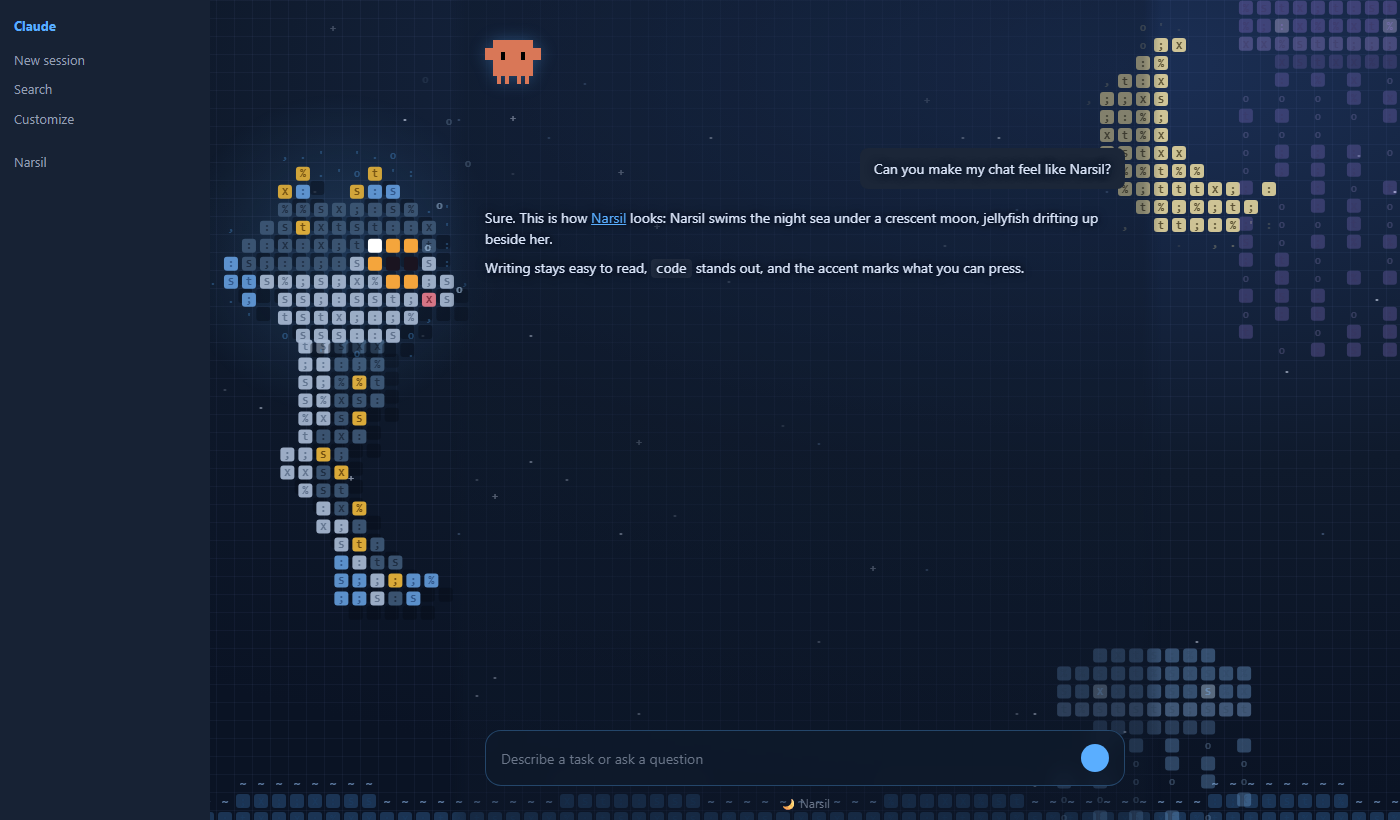
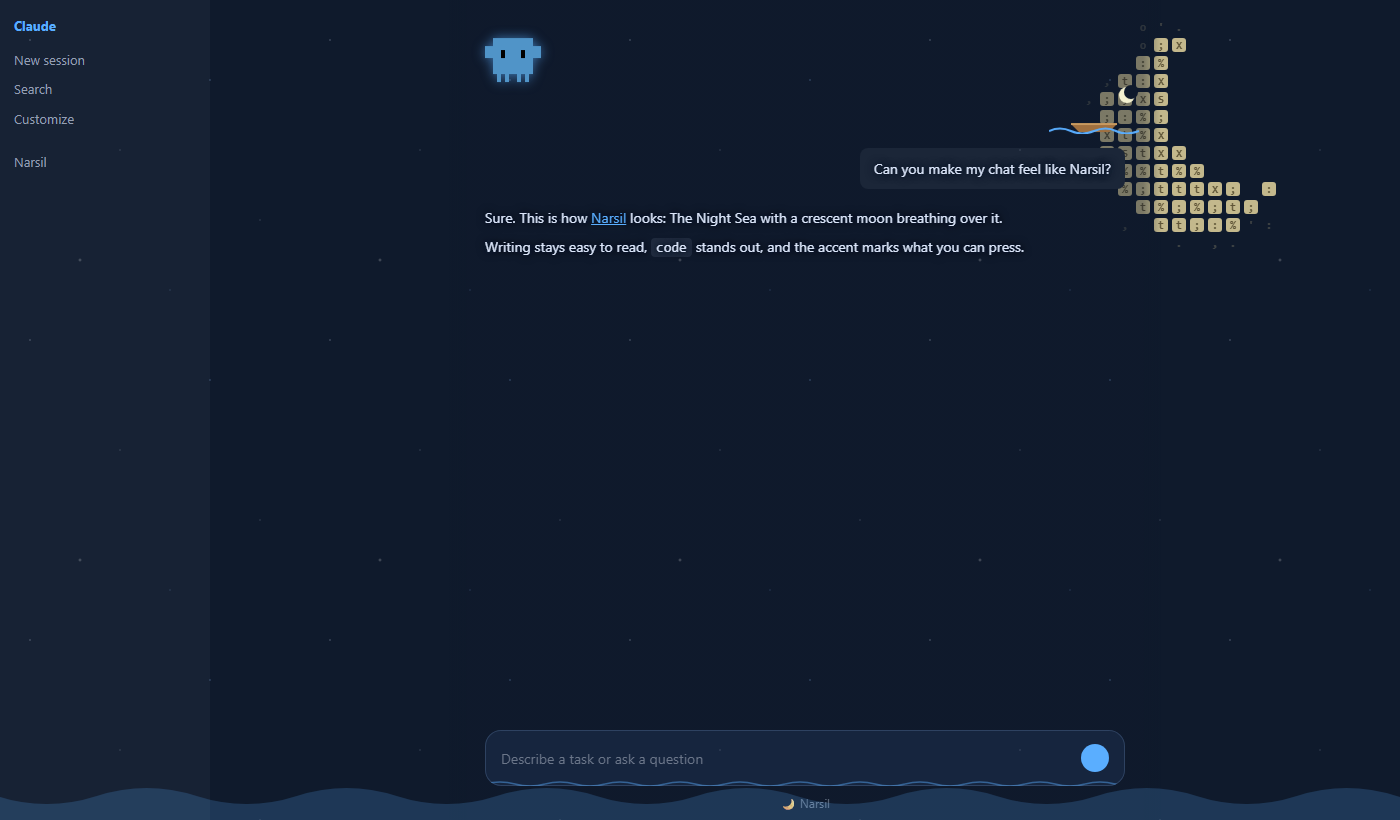
feat: reduce the Narsil theme to the Night Sea background and a moon
The scene now draws only a crescent moon whose light breathes slowly, on the
flat Night Sea sky. Scenes can set grid: false to leave out the faint grid.

diff --git a/hooks/thumbs.ts b/hooks/thumbs.ts
@@ -1,5 +1,5 @@
 export const THUMBS: Record<string, string> = {
[4 lines of base64/hex data omitted]
 }

diff --git a/extension/src/scenes/narsil.js b/extension/src/scenes/narsil.js
@@ -1,93 +1,12 @@
-// Narsil, a chibi sea serpent, swims the night sea: a crescent moon, jellyfish drifting up.
-// Her colors: a slate-blue back with gold spots, a pale belly, blue fins with gold spines, big amber eyes.
-const NARSIL = {
-  B: { bg: '#3d5674', fg: '#1e2c40', a: .95 },
-  b: { bg: '#a8bad2', fg: '#5d6f8a', a: .92 },
-  s: { bg: '#e6b23a', fg: '#6b4a10', a: .95 },
-  g: { bg: '#e6b23a', fg: '#6b4a10', a: .9 },
-  F: { bg: '#6aa6e8', fg: '#2b4f80', a: .85 },
-  E: { bg: '#f4a53c', fg: '#f4a53c', ch: '', a: 1 },
-  P: { bg: '#1a1420', fg: '#1a1420', ch: '', a: 1 },
-  W: { bg: '#ffffff', fg: '#ffffff', ch: '', a: 1 },
-  m: { bg: '#e07a8a', fg: '#7a2a3a', a: .95 },
-};
-
-// Her head, facing right: dorsal fin with gold spines, a big amber eye with a white glint, a smile, a side fin
-// that paddles (two frames)
-const HEAD_W = 13, HEAD_H = 10;
-const HEAD_TOP = [[2, 3, 'BBBBBBBB'], [3, 2, 'BBsBBBBBBB'], [4, 1, 'BBBBBBBWEEB'], [6, 0, 'FFbbbbbbbEEbb'],
-  [8, 3, 'bbbbbbbb'], [9, 4, 'bbbbbb']];
-const HEADS = [
-  sketch(HEAD_W, HEAD_H, [[0, 4, 'g'], [0, 8, 'g'], [1, 3, 'gF'], [1, 7, 'gFF'], ...HEAD_TOP,
-    [5, 0, 'FBBBBBBbEPPb'], [7, 1, 'F bbbbbbbbmb']]),
-  sketch(HEAD_W, HEAD_H, [[0, 5, 'g'], [0, 9, 'g'], [1, 4, 'gF'], [1, 8, 'gF'], ...HEAD_TOP,
-    [5, 1, 'BBBBBBbEPPb'], [7, 0, 'FFFbbbbbbbbmb']]),
-];
-
-// Her body, upright as in her picture and worked out each frame: an S-wave runs from the neck down to the tail,
-// wider at the neck, swinging more toward the tail, with a fin at its end
-const BODY_W = 12, BODY_H = 15;
-const spine = (gy, t) => 6 + (.4 + gy * .14) * Math.sin(gy * .45 - t * 2.4);
-const body = t => (gx, gy) => {
-  const hw = Math.max(.8, 2.6 - gy * .12), d = gx - spine(gy, t);
-  if (Math.abs(d) <= hw) {
-    if (d < -hw * .15) return { c: NARSIL.b };
-    return { c: hash(gx, gy, 13) < .14 ? NARSIL.s : NARSIL.B };
-  }
-  const fin = gy - (BODY_H - 4);
-  if (fin > 0 && Math.abs(d) <= hw + fin * .9 && hash(gx, gy, 17) < .85) return { c: NARSIL.F };
-};
-
-// Jellyfish from the deep, smaller and dimmer than Narsil
-const jelly = ph => sketch(13, 22, [
-  ...(ph ? [[0, 4, 'BBBBB'], [1, 2, 'BBBBBBBBB'], [2, 1, 'BBpBBBBBpBB'], [3, 0, 'RRRRRRRRRRRRR']]
-    : [[0, 3, 'BBBBBBB'], [1, 1, 'BBBBBBBBBBB'], [2, 1, 'BBpBBBBBpBB'], [3, 1, 'RRRRRRRRRRR']]),
-  [4, 3, 'kkkkkkk'],
-  ...[1, 3, 5, 7, 9, 11].flatMap((c, k) => Array.from({ length: 16 }, (_, i) => {
-    const r = hash(k, i, 7);
-    return r < .18 ? [] : [[5 + i, c, r < .42 ? 'o' : 'l']];
-  }).flat()),
-]);
-const JELLIES = [jelly(0), jelly(1)];
-const jellyPal = c => ({
-  B: { bg: c, fg: shade(c, -.6), a: .72 }, p: { bg: shade(c, .55), fg: c, a: .85 }, R: { bg: shade(c, .15), fg: shade(c, -.6), a: .78 },
-  k: { bg: shade(c, -.15), fg: shade(c, -.65), a: .6 }, l: { bg: c, fg: shade(c, -.6), a: .62 }, o: { ch: 'o', fg: shade(c, .3), a: .5 },
-});
-const JELLY = [[.8, jellyPal('#7fb4ef'), .7, .5], [.92, jellyPal('#9a7fe0'), .55, .42]];
-
-const BUBBLE = sketch(1, 1, [[0, 0, 'o']]);
-const BUBBLE_PAL = { o: { ch: 'o', fg: '#bfe0ff', a: .7 } };
-
+// The Narsil theme's only motion: a crescent moon, its light breathing slowly. Everything else is the Night Sea
+// background of themes/narsil.css, so this scene draws no grid and nothing but the moon.
 SCENES.narsil = {
+  grid: false,
   cell: (x, y, cols, rows, t) => {
-    // the crescent moon, top right, with a soft rim
     const mx = Math.round(cols * .84), my = Math.round(rows * .16), R = 5.5;
     const d1 = Math.hypot(x - mx, y - my), d2 = Math.hypot(x - mx - 3, y - my + 1.6);
-    if (d1 <= R && d2 > R * .85) return { bg: '#e8d9a0', fg: '#4a4126', a: .88 };
-    if (d1 <= R + 1.5 && d2 > R * .85 + .6 && hash(x, y, 5) < .45) return { fg: '#e8d9a0', a: .22 + .12 * Math.sin(t * 2 + x) };
-    // (the wave along the bottom is the theme stylesheet's, so it can swell and turn red with Claude's work)
-    // specks rising through the water, and stars
-    if (rising(x, y, t, .6, .006)) return { ch: '.', fg: '#9cc8ff', a: .3 };
-    return twinkle(x, y, t, '#dce6fa', .014);
-  },
-  sprites: (cols, rows, t) => {
-    // in the left margin, beside the chat, bobbing gently
-    const x0 = cols * .255 - BODY_W / 2 + Math.sin(t * .25) * 1.5, y0 = rows * .42 + Math.sin(t * .6) * 1.2;
-    const hx = x0 + spine(0, t) - 6.5, hy = y0 - HEAD_H + .4;
-    return [
-      ...JELLY.map(([fx, pal, v, a], i) => {
-        const span = rows + 34;
-        return { art: frame(JELLIES, t, 1.1, i * .5), pal, a, key: 10 + i,
-          x: fx * cols + Math.sin(t * .35 + i) * 2.5 - 6.5, y: rows + 4 - ((t * v + i * span / 2) % span) };
-      }),
-      { field: body(t), w: BODY_W, h: BODY_H, x: x0, y: y0, key: 1, shadow: '#050a14' },
-      { art: frame(HEADS, t, 1.4), pal: NARSIL, x: hx, y: hy, key: 2, shadow: '#050a14', halo: '#5aaeff',
-        glow: { r: 9, color: '#5aaeff', a: .18 } },
-      ...Array.from({ length: 6 }, (_, i) => {
-        const p = (t * .35 + i / 6) % 1;
-        return { art: BUBBLE, pal: BUBBLE_PAL, key: 20 + i, a: 1 - p,
-          x: hx + 12 + Math.sin(t * 2 + i * 1.7) * 1.2, y: hy + 7 - p * 14 };
-      }),
-    ];
+    const breath = .5 + .5 * Math.sin(t * .8);
+    if (d1 <= R && d2 > R * .85) return { bg: '#e8d9a0', fg: '#4a4126', a: .78 + .17 * breath };
+    if (d1 <= R + 1.5 && d2 > R * .85 + .6 && hash(x, y, 5) < .45) return { fg: '#e8d9a0', a: .15 + .25 * breath };
   },
 };

diff --git a/hooks/themes.ts b/hooks/themes.ts
@@ -6,8 +6,8 @@ export const THEMES: Theme[] = [
   // Narsil, the mascot of the narsil-pet mod, with the Night Sea palette and its soft blue shadows
   ((t: Theme) => ({ ...t, vars: { ...t.vars, 'cds-shadow-md': '0 6px 22px rgba(90, 174, 255, .12)',
     'cds-shadow-lg': '0 12px 34px rgba(90, 174, 255, .16)' } }))(
-    live('narsil', 'Narsil', 'Narsil swims the night sea under a crescent moon, jellyfish drifting up beside her',
-      ['#0f1a2c', '#dce6fa', '#5aaeff'], 'radial-gradient(120% 90% at 80% 8%, #1b2f55, #0f1a2c 55%, #0a1324)',
+    live('narsil', 'Narsil', 'The Night Sea with a crescent moon breathing over it',
+      ['#0f1a2c', '#dce6fa', '#5aaeff'], '#0f1a2c',
       'rgba(15, 26, 44, .6)', 'rgba(90, 174, 255, .3)', 'here to cut some bugs ⚔',
       { idle: '🌙 Narsil', tool: '🌊 {tool}…', error: '⚔ {tool} failed', done: '✨ done' })),
   {

diff --git a/extension/src/engine.js b/extension/src/engine.js
@@ -31,11 +31,13 @@ const draw = w => {
   if (!(now - w.measured < 1000)) { w.col = column(); w.measured = now; }
   ctx.clearRect(0, 0, W, H);
   ctx.globalAlpha = 1;
-  ctx.strokeStyle = 'rgba(160, 180, 255, .05)';
-  ctx.beginPath();
-  for (let x = 0; x <= cols; x++) { ctx.moveTo(x * CELL + .5, 0); ctx.lineTo(x * CELL + .5, H); }
-  for (let y = 0; y <= rows; y++) { ctx.moveTo(0, y * CELL + .5); ctx.lineTo(W, y * CELL + .5); }
-  ctx.stroke();
+  if (scene.grid !== false) {
+    ctx.strokeStyle = 'rgba(160, 180, 255, .05)';
+    ctx.beginPath();
+    for (let x = 0; x <= cols; x++) { ctx.moveTo(x * CELL + .5, 0); ctx.lineTo(x * CELL + .5, H); }
+    for (let y = 0; y <= rows; y++) { ctx.moveTo(0, y * CELL + .5); ctx.lineTo(W, y * CELL + .5); }
+    ctx.stroke();
+  }
   if (scene.cell)
     for (let y = 0; y < rows; y++)
       for (let x = 0; x < cols; x++) {

diff --git a/tests/themes.test.ts b/tests/themes.test.ts
@@ -24,6 +24,7 @@ test('every theme has a tile the desktop takes, and Claude writes no colors', as
   expect(fileOf(THEMES[0]!)).toBe('{}')
   expect(THEMES.map(t => t.id)).toEqual(['claude', 'narsil', 'night-sea', 'moonlit', 'jellyfish'])
   expect(THEMES.find(t => t.id === 'narsil')).toMatchObject({ bg: '#0f1a2c', text: '#dce6fa', accent: '#5aaeff', wallpaper: 'narsil' })
+  expect(THEMES.find(t => t.id === 'narsil')?.vars?.['wall-sky']).toBe('#0f1a2c')
   const sea = JSON.parse(fileOf(THEMES[2]!, 'html{}'))
   expect(sea.accent).toBe('#5aaeff')
   expect(sea.css).toBe('html{}')

diff --git a/README.md b/README.md
@@ -34,11 +34,11 @@ La primera vez el panel solo muestra el botón **Install extension**: es el paso
 Una escena dibujada con caracteres se mueve detrás del chat. Desde el panel puedes cambiar su movimiento (suave o celda a celda), su velocidad, el tamaño de las celdas y la opacidad del fondo que hay detrás del texto para que se lea bien.
 
 <p align="center">
-  <img src="docs/narsil.png" alt="Narsil: Narsil swimming in the night sea beside the chat, under a crescent moon, with jellyfish rising">
+  <img src="docs/narsil.png" alt="Narsil: the Night Sea background with a crescent moon at the top right of the window">
   <br><strong>Narsil</strong>
 </p>
 
-**Narsil** es el tema de la casa: Narsil, la serpiente marina de [narsil-pet](https://github.com/davshn/narsil-pet), nada de pie en el margen del chat, con el cuerpo ondulando, la aleta lateral remando y burbujas saliendo de su boca. Arriba brillan una luna creciente y las estrellas, y por la derecha suben medusas. Usa los colores y las reacciones de Night Sea: la ola de abajo crece cuando Claude usa una herramienta y se vuelve roja si falla, las estrellas destellan al terminar el turno, cruzan estrellas fugaces mientras piensa y late un borde azul cuando te espera.
+**Narsil** es el tema de la casa: el fondo de Night Sea con una luna creciente arriba a la derecha, cuya luz respira despacio. La luna es lo único de la escena que se anima. Usa los colores y las reacciones de Night Sea: la ola de abajo crece cuando Claude usa una herramienta y se vuelve roja si falla, las estrellas destellan al terminar el turno, cruzan estrellas fugaces mientras piensa y late un borde azul cuando te espera.
 
 | | |
 |:-:|:-:|

diff --git a/skills/make-theme/SKILL.md b/skills/make-theme/SKILL.md
@@ -75,7 +75,8 @@ Do not change the mod's own files: the theme belongs to the person, not to the m
    character `{ fg, a, ch? }`, or nothing. It also has `sprites(cols, rows, t)`, which returns
    `[{ x, y, key, art, pal }]` or `[{ x, y, key, field, w, h }]`. A sprite can also have `a`, `shadow` and
    `glow: { r, color, a }`. Only an `art` sprite can have `halo`. A cell can have `floor`: the least brightness it
-   keeps in the chat column. A scene can have `size`: the largest cell size in pixels.
+   keeps in the chat column. A scene can have `size`: the largest cell size in pixels, and
+   `grid: false` to leave out the faint grid drawn behind it.
 2. Write the theme as `<id>.json` beside it, with `"wallpaper": "<id>"` (the theme's own id: the mod refuses any
    other) and the `wall-*` vars that `live()` in `hooks/themes.ts` sets.
 3. Make its pane tile, a picture of the scene, as `<id>.jpg` beside it (without it the tile is drawn from the
